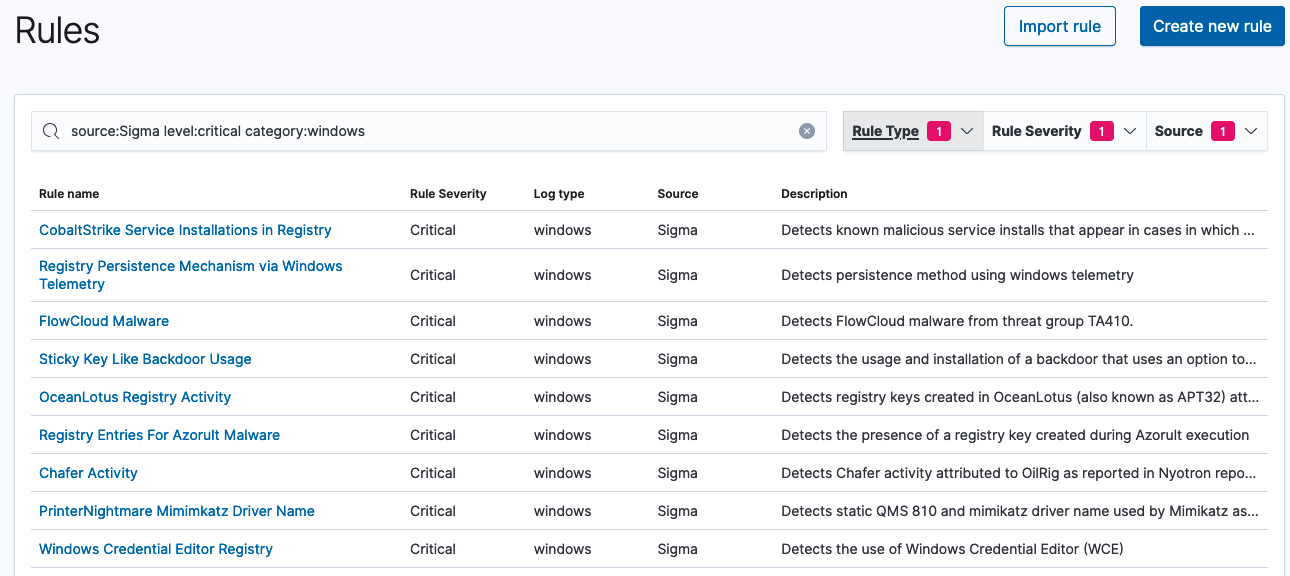
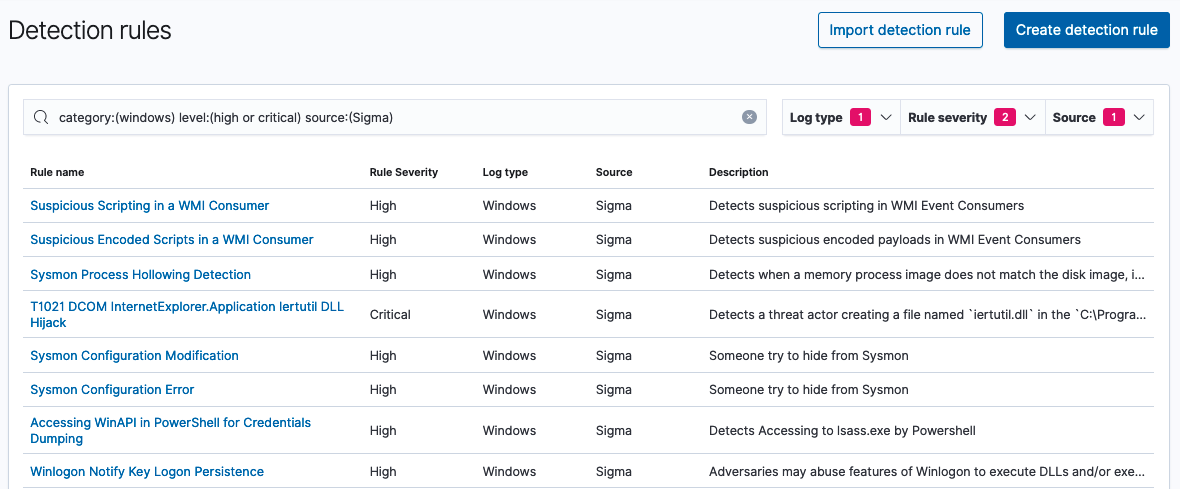
fix#4413 detection rule updates

diff --git a/_security-analytics/usage/rules.md b/_security-analytics/usage/rules.md
@@ -1,19 +1,19 @@
 ---
 layout: default
-title: Working with rules
+title: Working with detection rules
 parent: Using Security Analytics
 nav_order: 40
 ---
 
-# Working with rules
+# Working with detection rules
 
-The Rules window lists all security rules and provides options for filtering the list and viewing details for each rule. Further options let you import rules and create new rules by first duplicating a Sigma rule then modifying it. This section covers navigation of the Rules page and description of the actions you can perform.
+The **Detection rules** window lists all security rules used for detection creation and provides options for filtering the list and viewing details for each rule. Further options let you import rules and create new rules by first duplicating a Sigma rule then modifying it. This section covers navigation of the Rules page and description of the actions you can perform.
 
 <img src="{{site.url}}{{site.baseurl}}/images/Security/Rules.png" alt="The Rules page" width="90%">
 
 ## Viewing and filtering rules
 
-When you open the Rules page, all rules are listed in the table. Use the search bar to search for specific rules by entering a full or partial name and pressing **Return/Enter** on your keyboard. The list is filtered and displays matching results.
+When you open the Detection rules page, all rules are listed in the table. Use the search bar to search for specific rules by entering a full or partial name and pressing **Return/Enter** on your keyboard. The list is filtered and displays matching results.
 
 Alternatively, you can use the **Rule type**, **Rule severity**, and **Source** dropdown lists to drill down in the alerts and filter for preferred results. You can select multiple options from each list and use all three in combination to narrow results.
 
@@ -30,11 +30,11 @@ In Visual view, rule details are arranged in fields, and the links are active. S
 <img src="{{site.url}}{{site.baseurl}}/images/Security/rule_detail_yaml.png" alt="The rule details pane in YAML file view" width="50%">
 
 * Rule details are formatted as a YAML file according to the Sigma rule specification.
-* To copy the rule, select the copy icon in the top right corner of the rule. To quickly create a new and customized rule, you can paste the rule into the YAML editor and make any modifications before saving it. See [Customizing rules](#customizing-rules) for details.
+* To copy the rule, select the copy icon in the top-right corner of the rule. To quickly create a new and customized rule, you can paste the rule into the YAML editor and make any modifications before saving it. See [Customizing rules](#customizing-rules) for details.
 
 ## Creating rules
 
-There are several ways to create rules on the Rules page. The first is to manually fill in the necessary fields that complete the rule, using either the Visual Editor or YAML Editor. To do this, select the **Create new rule** button in the uppper-right corner of the Rules window. The Create a rule window opens.
+There are several ways to create rules on the **Detection rules** page. The first is to manually fill in the necessary fields that complete the rule, using either the Visual Editor or YAML Editor. To do this, select the **Create new rule** button in the uppper-right corner of the screen. The Create a rule window opens.
 
 <img src="{{site.url}}{{site.baseurl}}/images/Security/create-a-rule.png" alt="The Create a rule window, which includes the Visual Editor and YAML editor." width="50%">
 
